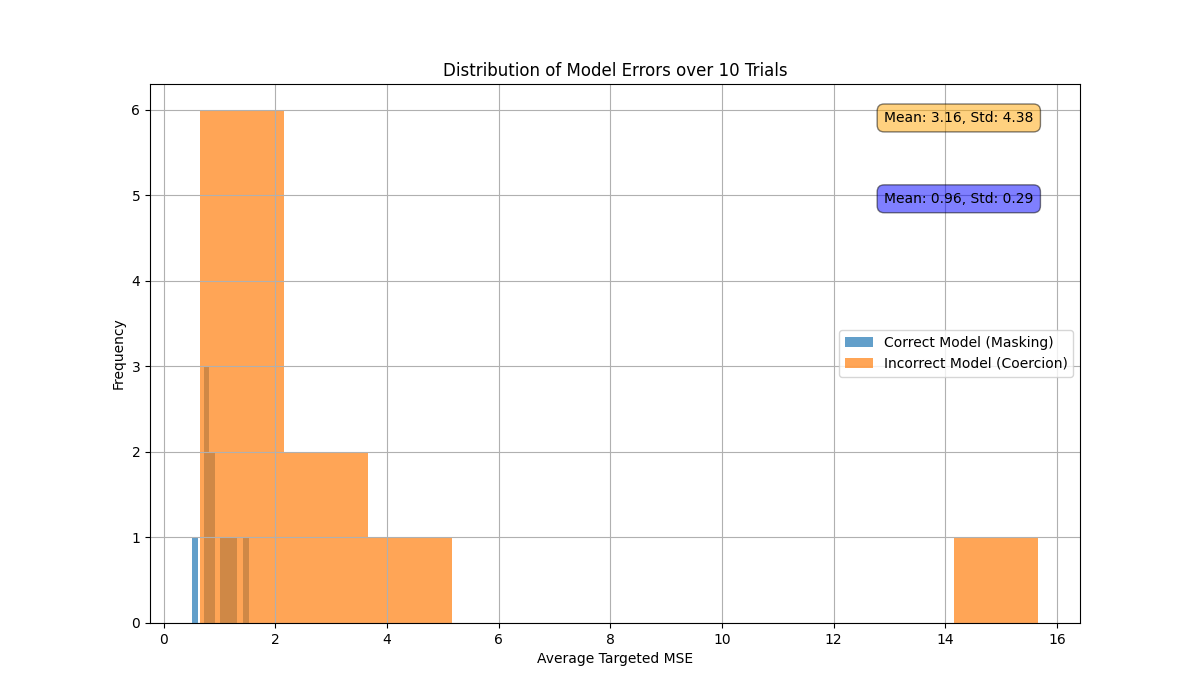
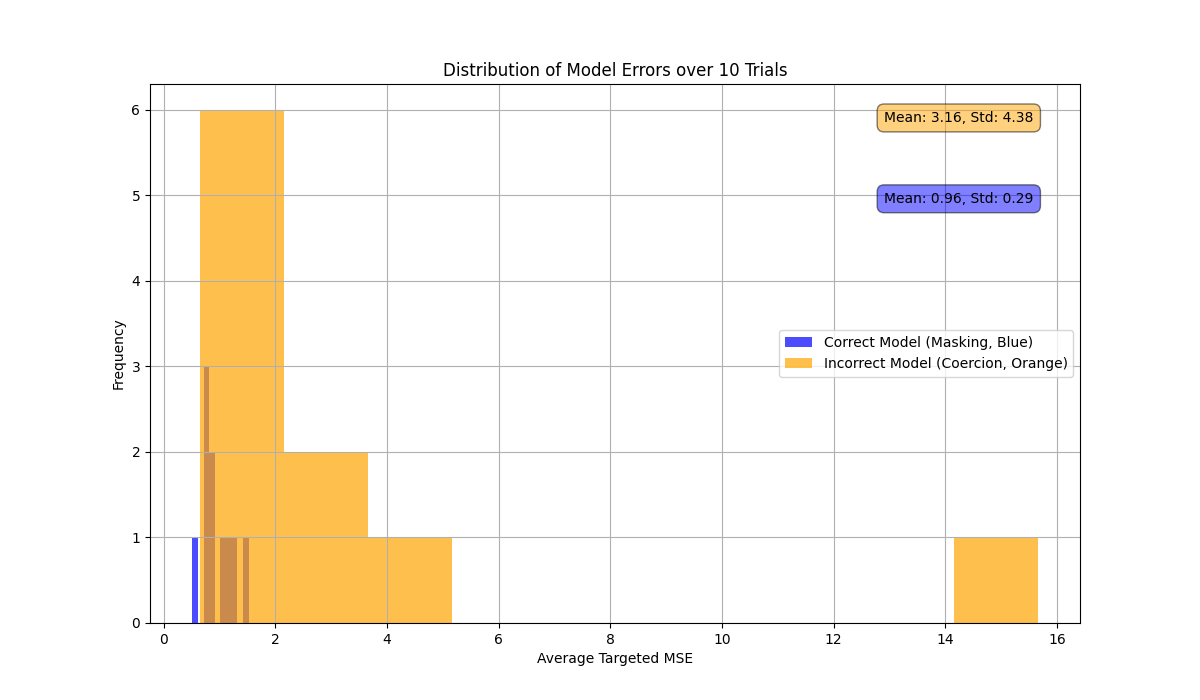
plots

Changed region(s): [[0.1542, 0.15, 0.4008, 0.9], [0.6475, 0.48, 0.8942, 0.54], [0.7708, 0.75, 0.8633, 0.9]]

diff --git a/Demos/Demo3/plotting3.py b/Demos/Demo3/plotting3.py
@@ -3,7 +3,7 @@ import os
 import matplotlib.pyplot as plt
 from matplotlib.axes import Axes
 import numpy as np
-from typing import List, Dict, Any
+from typing import List, Dict, Any, Tuple
 
 def plot_aggregated_learning_curves(
     ax: Axes, 
@@ -37,6 +37,91 @@ def plot_aggregated_learning_curves(
     # Plot average curve
     ax.plot(epochs, mean_metric, color=color, label=label, linewidth=2.5, linestyle=linestyle)
 
+def plot_prediction_distribution(data: Dict[str, Any], graphs_dir: str):
+    """
+    Plots the distribution of predicted values against their target values
+    for each feature index and model type, using four separate subplots.
+    """
+    correct_evals = data['correct_model'].get('all_evaluations', [])
+    incorrect_evals = data['incorrect_model'].get('all_evaluations', [])
+
+    if not correct_evals or not incorrect_evals:
+        print("Evaluation data for prediction distribution plot not found. Skipping.")
+        return
+
+    # Helper to collect prediction and target points for each feature index
+    def collect_points(evaluations: List[Dict[str, Any]]) -> Tuple[List[float], List[float], List[float], List[float]]:
+        all_preds_0, all_targets_0 = [], []
+        all_preds_1, all_targets_1 = [], []
+
+        for trial in evaluations:
+            for i in range(len(trial['predictions'])):
+                pred_vector = np.array(trial['predictions'][i]).flatten()
+                target_vector = np.array(trial['targets'][i]).flatten()
+                
+                # Feature Index 0
+                if not np.isnan(target_vector[0]):
+                    all_preds_0.append(pred_vector[0])
+                    all_targets_0.append(target_vector[0])
+                
+                # Feature Index 1
+                if len(target_vector) > 1 and not np.isnan(target_vector[1]):
+                    all_preds_1.append(pred_vector[1])
+                    all_targets_1.append(target_vector[1])
+
+        return all_preds_0, all_targets_0, all_preds_1, all_targets_1
+
+    c_preds_0, c_targets_0, c_preds_1, c_targets_1 = collect_points(correct_evals)
+    ic_preds_0, ic_targets_0, ic_preds_1, ic_targets_1 = collect_points(incorrect_evals)
+    
+    # Create 4 vertical subplots
+    fig, axes = plt.subplots(4, 1, figsize=(10, 24), sharex=True, sharey=True)
+    fig.suptitle('Predicted vs. Actual Values for Regression Targets', fontsize=16, y=0.96)
+
+    plot_configs = [
+        {'ax': axes[0], 'preds': c_preds_0, 'targets': c_targets_0, 'color': 'blue', 'title': 'Correct Model - Feature 0'},
+        {'ax': axes[1], 'preds': ic_preds_0, 'targets': ic_targets_0, 'color': 'orange', 'title': 'Incorrect Model - Feature 0'},
+        {'ax': axes[2], 'preds': c_preds_1, 'targets': c_targets_1, 'color': 'blue', 'title': 'Correct Model - Feature 1'},
+        {'ax': axes[3], 'preds': ic_preds_1, 'targets': ic_targets_1, 'color': 'orange', 'title': 'Incorrect Model - Feature 1'}
+    ]
+
+    all_values = c_preds_0 + c_targets_0 + c_preds_1 + c_targets_1 + ic_preds_0 + ic_targets_0 + ic_preds_1 + ic_targets_1
+    if not all_values:
+        print("No valid data points found to plot prediction distribution. Skipping.")
+        plt.close(fig)
+        return
+        
+    min_val, max_val = min(all_values), max(all_values)
+    padding = (max_val - min_val) * 0.1
+    ax_min = min_val - padding
+    ax_max = max_val + padding
+
+    for config in plot_configs:
+        ax = config['ax']
+        if config['preds']:
+            model_type_label = config['title'].split(' - ')[0]
+            label = f"{model_type_label} ({config['color']}, n={len(config['preds'])})"
+            ax.scatter(config['targets'], config['preds'], alpha=0.5, color=config['color'], label=label)
+            ax.plot([ax_min, ax_max], [ax_min, ax_max], 'r--', label='Ideal (y=x)')
+            ax.axhline(0, color='gray', linestyle=':', linewidth=1)
+            ax.axvline(0, color='gray', linestyle=':', linewidth=1)
+        ax.set_title(config['title'])
+        ax.set_ylabel('Predicted Value')
+        ax.grid(True)
+        ax.legend()
+        ax.set_xlim(ax_min, ax_max)
+        ax.set_ylim(ax_min, ax_max)
+        ax.set_aspect('equal', adjustable='box')
+
+
+    axes[3].set_xlabel('Actual Value')
+
+    plt.tight_layout(rect=[0, 0, 1, 0.95])
+    plot_path = os.path.join(graphs_dir, 'prediction_vs_actual_scatter.png')
+    plt.savefig(plot_path)
+    print(f"Saved prediction vs actual scatter plot to: {plot_path}")
+    plt.close(fig)
+
 def plot_results():
     """
     Plots the results from the .npy file.
@@ -55,11 +140,14 @@ def plot_results():
     correct_model_data = data['correct_model']
     incorrect_model_data = data['incorrect_model']
     num_trials = data['num_trials']
+    
+    color_correct = 'blue'
+    color_incorrect = 'orange'
 
     # --- Create and save the histogram ---
     plt.figure(figsize=(12, 7))
-    plt.hist(correct_model_data['mse_results'], bins=10, alpha=0.7, label='Correct Model (Masking)')
-    plt.hist(incorrect_model_data['mse_results'], bins=10, alpha=0.7, label='Incorrect Model (Coercion)')
+    plt.hist(correct_model_data['mse_results'], bins=10, alpha=0.7, label=f'Correct Model (Masking, {color_correct.capitalize()})', color=color_correct)
+    plt.hist(incorrect_model_data['mse_results'], bins=10, alpha=0.7, label=f'Incorrect Model (Coercion, {color_incorrect.capitalize()})', color=color_incorrect)
     
     # AI: Add text for mean and std
     stats_text_correct = (f"Mean: {correct_model_data['mean_mse']:.2f}, "
@@ -89,19 +177,19 @@ def plot_results():
 
     # --- Create and save the scatter plot ---
     plt.figure(figsize=(12, 7))
-    plt.scatter(correct_model_data['epochs'], correct_model_data['mse_results'], alpha=0.7, label='Correct Model (Masking)')
-    plt.scatter(incorrect_model_data['epochs'], incorrect_model_data['mse_results'], alpha=0.7, label='Incorrect Model (Coercion)', marker='x')
+    plt.scatter(correct_model_data['epochs'], correct_model_data['mse_results'], alpha=0.7, label=f'Correct Model (Masking, {color_correct.capitalize()})', color=color_correct)
+    plt.scatter(incorrect_model_data['epochs'], incorrect_model_data['mse_results'], alpha=0.7, label=f'Incorrect Model (Coercion, {color_incorrect.capitalize()})', marker='x', color=color_incorrect)
     
     # AI: Add trend lines
     if len(correct_model_data['epochs']) > 1:
         z = np.polyfit(correct_model_data['epochs'], correct_model_data['mse_results'], 1)
         p = np.poly1d(z)
-        plt.plot(correct_model_data['epochs'], p(correct_model_data['epochs']), "--", color='blue')
+        plt.plot(correct_model_data['epochs'], p(correct_model_data['epochs']), "--", color=color_correct)
 
     if len(incorrect_model_data['epochs']) > 1:
         z = np.polyfit(incorrect_model_data['epochs'], incorrect_model_data['mse_results'], 1)
         p = np.poly1d(z)
-        plt.plot(incorrect_model_data['epochs'], p(incorrect_model_data['epochs']), "--", color='orange')
+        plt.plot(incorrect_model_data['epochs'], p(incorrect_model_data['epochs']), "--", color=color_incorrect)
         
     plt.xlabel('Epoch at Best Validation Performance')
     plt.ylabel('Average Targeted MSE')
@@ -118,10 +206,10 @@ def plot_results():
     if 'all_learning_curves' in correct_model_data and correct_model_data['all_learning_curves']:
         # Plot for Hybrid Loss
         fig, ax = plt.subplots(figsize=(12, 7))
-        plot_aggregated_learning_curves(ax, correct_model_data['all_learning_curves'], 'train_loss', 'blue', 'Correct Model - Train Loss', linestyle='--')
-        plot_aggregated_learning_curves(ax, correct_model_data['all_learning_curves'], 'val_loss', 'blue', 'Correct Model - Val Loss')
-        plot_aggregated_learning_curves(ax, incorrect_model_data['all_learning_curves'], 'train_loss', 'orange', 'Incorrect Model - Train Loss', linestyle='--')
-        plot_aggregated_learning_curves(ax, incorrect_model_data['all_learning_curves'], 'val_loss', 'orange', 'Incorrect Model - Val Loss')
+        plot_aggregated_learning_curves(ax, correct_model_data['all_learning_curves'], 'train_loss', color_correct, f'Correct Model - Train Loss ({color_correct.capitalize()})', linestyle='--')
+        plot_aggregated_learning_curves(ax, correct_model_data['all_learning_curves'], 'val_loss', color_correct, f'Correct Model - Val Loss ({color_correct.capitalize()})')
+        plot_aggregated_learning_curves(ax, incorrect_model_data['all_learning_curves'], 'train_loss', color_incorrect, f'Incorrect Model - Train Loss ({color_incorrect.capitalize()})', linestyle='--')
+        plot_aggregated_learning_curves(ax, incorrect_model_data['all_learning_curves'], 'val_loss', color_incorrect, f'Incorrect Model - Val Loss ({color_incorrect.capitalize()})')
         
         ax.set_xlabel('Epoch')
         ax.set_ylabel('Hybrid Loss')
@@ -137,10 +225,10 @@ def plot_results():
 
         # Plot for Targeted MSE
         fig, ax = plt.subplots(figsize=(12, 7))
-        plot_aggregated_learning_curves(ax, correct_model_data['all_learning_curves'], 'train_mse', 'blue', 'Correct Model - Train MSE', linestyle='--')
-        plot_aggregated_learning_curves(ax, correct_model_data['all_learning_curves'], 'val_mse', 'blue', 'Correct Model - Val MSE')
-        plot_aggregated_learning_curves(ax, incorrect_model_data['all_learning_curves'], 'train_mse', 'orange', 'Incorrect Model - Train MSE', linestyle='--')
-        plot_aggregated_learning_curves(ax, incorrect_model_data['all_learning_curves'], 'val_mse', 'orange', 'Incorrect Model - Val MSE')
+        plot_aggregated_learning_curves(ax, correct_model_data['all_learning_curves'], 'train_mse', color_correct, f'Correct Model - Train MSE ({color_correct.capitalize()})', linestyle='--')
+        plot_aggregated_learning_curves(ax, correct_model_data['all_learning_curves'], 'val_mse', color_correct, f'Correct Model - Val MSE ({color_correct.capitalize()})')
+        plot_aggregated_learning_curves(ax, incorrect_model_data['all_learning_curves'], 'train_mse', color_incorrect, f'Incorrect Model - Train MSE ({color_incorrect.capitalize()})', linestyle='--')
+        plot_aggregated_learning_curves(ax, incorrect_model_data['all_learning_curves'], 'val_mse', color_incorrect, f'Incorrect Model - Val MSE ({color_incorrect.capitalize()})')
 
         ax.set_xlabel('Epoch')
         ax.set_ylabel('Targeted MSE')
@@ -153,6 +241,9 @@ def plot_results():
         plt.savefig(mse_curve_path)
         print(f"Saved aggregated MSE learning curve plot to: {mse_curve_path}")
         plt.close()
+
+    # --- Create and save the prediction distribution plot ---
+    plot_prediction_distribution(data, graphs_dir)
 
 if __name__ == "__main__":
     plot_results()

diff --git a/Demos/Demo3/models3.py b/Demos/Demo3/models3.py
@@ -16,6 +16,9 @@ import math
 import copy
 from scipy.stats import ttest_ind # type: ignore # AI: Consider `pip install types-scipy` to remove this ignore
 
+# AI: Add project root to path to resolve import errors
+sys.path.insert(0, os.path.abspath(os.path.join(os.path.dirname(__file__), '../../')))
+
 # AI: Set random seeds for reproducibility
 random.seed(42)
 np.random.seed(42)
@@ -25,7 +28,7 @@ torch.manual_seed(42)
 original_stdout = sys.stdout
 sys.stdout = open(os.devnull, 'w')
 try:
-    from .data3 import (
+    from Demos.Demo3.data3 import (
         TRAINING_DATA_WITH_CONTEXT_VECTORISED,
         TRAINING_DATA_WITH_CONTEXT_VECTORISED_COERCION,
         events_id_list,
@@ -33,6 +36,7 @@ try:
         get_vector_sizes
     )
 except (ImportError, ModuleNotFoundError):
+    # AI: This fallback is now less likely to be needed but kept for robustness.
     from Demos.Demo3.data3 import (
         TRAINING_DATA_WITH_CONTEXT_VECTORISED,
         TRAINING_DATA_WITH_CONTEXT_VECTORISED_COERCION,
@@ -226,11 +230,13 @@ def get_relevant_indices_for_event(event_class_idx: int) -> Tuple[int, int]:
     length = get_vectorizer_output_length(events_id_list[event_class_idx])
     return start_idx, start_idx + length
 
-def evaluate_model(model: nn.Module, data: DataType) -> float:
+def evaluate_model(model: nn.Module, data: DataType) -> Dict[str, Any]:
     model.eval()
     all_pred_class_idx: list[int] = []
     all_actual_class_idx: list[int] = []
     targeted_mses: list[float] = []
+    all_data_preds: list[np.ndarray] = []
+    all_target_datas: list[np.ndarray] = []
 
     with torch.no_grad():
         for context, target_class, target_data in data:
@@ -241,6 +247,9 @@ def evaluate_model(model: nn.Module, data: DataType) -> float:
             
             all_pred_class_idx.append(pred_class_idx)
             all_actual_class_idx.append(actual_class_idx)
+            
+            all_data_preds.append(data_pred.squeeze(0).cpu().numpy())
+            all_target_datas.append(target_data.cpu().numpy())
 
             start, end = get_relevant_indices_for_event(actual_class_idx)
             if end > start:
@@ -279,13 +288,17 @@ def evaluate_model(model: nn.Module, data: DataType) -> float:
         avg_targeted_mse = float(np.mean(targeted_mses))
         print(f"Average Targeted MSE (on relevant data only): {avg_targeted_mse:.4f}")
 
-    return avg_targeted_mse
+    return {
+        'mse': avg_targeted_mse,
+        'predictions': all_data_preds,
+        'targets': all_target_datas
+    }
 
 def run_single_experiment(
     train_data_wc: DataType, val_data_wc: DataType, 
     train_data_woc: DataType, val_data_woc: DataType,
     capture_learning_curves: bool = False
-) -> Tuple[float, float, int, int, dict[str, list[float]], dict[str, list[float]]]:
+) -> Tuple[float, float, int, int, dict[str, list[float]], dict[str, list[float]], Dict[str, Any], Dict[str, Any]]:
     """
     AI: Runs one full training and evaluation cycle for both models and returns their MSE and best epoch.
     Optionally captures and returns learning curves.
@@ -297,18 +310,20 @@ def run_single_experiment(
     print("Training model WITH CONTEXT (Correct Masking)...")
     epochs_correct, curves_correct = train_model(model_with_context, train_data_wc, val_data_wc, capture_learning_curves=capture_learning_curves)
     print("Evaluating model WITH CONTEXT...")
-    mse_with_context = evaluate_model(model_with_context, val_data_wc)
+    eval_results_correct = evaluate_model(model_with_context, val_data_wc)
+    mse_with_context = float('nan' if eval_results_correct['mse'] is None else eval_results_correct['mse'])
 
     # --- Train and evaluate the model with incorrect coercion ---
     model_without_backprop = TransformerPredictor(INPUT_SIZE, D_MODEL, NHEAD, NUM_LAYERS, NUM_EVENT_TYPES, DATA_VECTOR_SIZE)
     print("\nTraining model WITH COERCED ZEROS (Incorrect)...")
     epochs_incorrect, curves_incorrect = train_model(model_without_backprop, train_data_woc, val_data_woc, capture_learning_curves=capture_learning_curves)
     print("Evaluating model WITH COERCED ZEROS...")
-    mse_without_backprop = evaluate_model(model_without_backprop, val_data_woc)
+    eval_results_incorrect = evaluate_model(model_without_backprop, val_data_woc)
+    mse_without_backprop = float('nan' if eval_results_incorrect['mse'] is None else eval_results_incorrect['mse'])
     
     print(f"Trial Results -> Correct MSE: {mse_with_context:.4f} (at epoch {epochs_correct}), Incorrect MSE: {mse_without_backprop:.4f} (at epoch {epochs_incorrect})")
     
-    return mse_with_context, mse_without_backprop, epochs_correct, epochs_incorrect, curves_correct, curves_incorrect
+    return mse_with_context, mse_without_backprop, epochs_correct, epochs_incorrect, curves_correct, curves_incorrect, eval_results_correct, eval_results_incorrect
 
 def main():
     print("Preparing data...")
@@ -322,6 +337,8 @@ def main():
     epochs_incorrect_list: list[int] = []
     all_curves_correct: list[dict[str, list[float]]] = []
     all_curves_incorrect: list[dict[str, list[float]]] = []
+    all_evals_correct: list[Dict[str, Any]] = []
+    all_evals_incorrect: list[Dict[str, Any]] = []
 
     print(f"\nRunning {num_trials} trials...")
     for i in range(num_trials):
@@ -338,7 +355,12 @@ def main():
         print(f"Data re-split for Trial {i+1} with seed {trial_seed}. Train size: {len(train_data_wc)}, Val size: {len(val_data_wc)}")
 
         capture_curves = True
-        mse_correct, mse_incorrect, epochs_correct, epochs_incorrect, curves_correct, curves_incorrect = run_single_experiment(
+        (
+            mse_correct, mse_incorrect, 
+            epochs_correct, epochs_incorrect, 
+            curves_correct, curves_incorrect, 
+            eval_correct, eval_incorrect
+        ) = run_single_experiment(
             train_data_wc, val_data_wc, train_data_woc, val_data_woc, capture_learning_curves=capture_curves
         )
         if not (np.isnan(mse_correct) or np.isnan(mse_incorrect)):
@@ -349,12 +371,14 @@ def main():
             if capture_curves:
                 all_curves_correct.append(curves_correct)
                 all_curves_incorrect.append(curves_incorrect)
+            all_evals_correct.append(eval_correct)
+            all_evals_incorrect.append(eval_incorrect)
     
     # --- Statistical Analysis ---
-    mean_correct = float(np.mean(results_correct))
-    std_correct = float(np.std(results_correct))
-    mean_incorrect = float(np.mean(results_incorrect))
-    std_incorrect = float(np.std(results_incorrect))
+    mean_correct = float(np.mean(results_correct)) if results_correct else float('nan')
+    std_correct = float(np.std(results_correct)) if results_correct else float('nan')
+    mean_incorrect = float(np.mean(results_incorrect)) if results_incorrect else float('nan')
+    std_incorrect = float(np.std(results_incorrect)) if results_incorrect else float('nan')
 
     print(f"Correct Model (Masking) MSE -> Mean: {mean_correct:.4f}, Std: {std_correct:.4f}")
     print(f"Incorrect Model (Coercion) MSE -> Mean: {mean_incorrect:.4f}, Std: {std_incorrect:.4f}")
@@ -379,14 +403,16 @@ def main():
             "epochs": epochs_correct_list,
             "mean_mse": mean_correct,
             "std_mse": std_correct,
-            "all_learning_curves": all_curves_correct
+            "all_learning_curves": all_curves_correct,
+            "all_evaluations": all_evals_correct
         },
         "incorrect_model": {
             "mse_results": results_incorrect,
             "epochs": epochs_incorrect_list,
             "mean_mse": mean_incorrect,
             "std_mse": std_incorrect,
-            "all_learning_curves": all_curves_incorrect
+            "all_learning_curves": all_curves_incorrect,
+            "all_evaluations": all_evals_incorrect
         },
         "t_test": {
             "statistic": t_stat,
